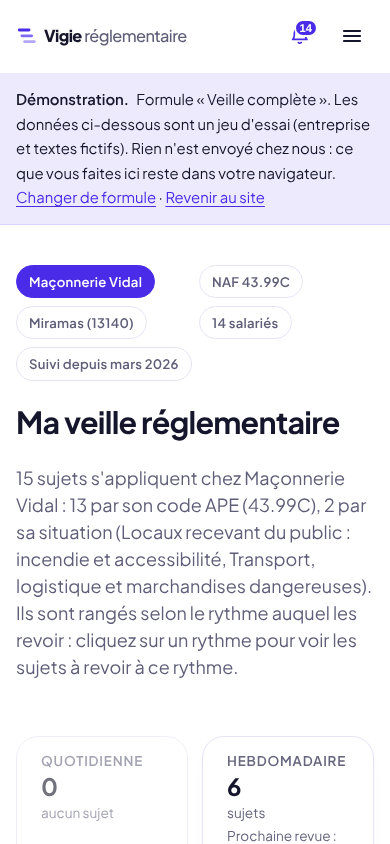
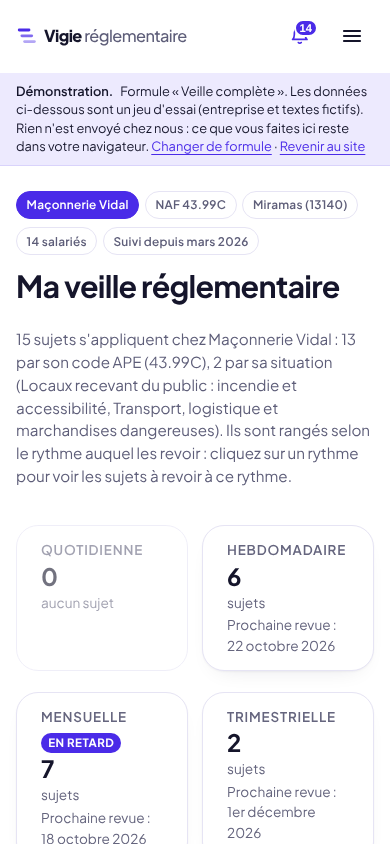
Téléphone plus soigné, écrans d'accès sur le modèle des autres pages
- Téléphone : cartes de tableau compactes (le texte en tête, deux
  informations par ligne), carrés deux par deux, en-tête et bandeau de
  démonstration plus courts, sections moins espacées.
- Connexion, création de compte, mot de passe oublié : titre à gauche, puis
  une carte pour le formulaire et une pour ce que l'on retrouve dans son
  espace, comme Mon compte et Réglages.

Claude-Session: https://claude.ai/code/session_018eHCodhqxxzNvWMueTAwHN

Changed region(s): [[0.0308, 0.0924, 0.9538, 0.8009], [0.0923, 0.8318, 0.3692, 1.0], [0.5846, 0.8318, 0.8923, 1.0]]

diff --git a/assets/site.css b/assets/site.css
@@ -4177,3 +4177,67 @@ main .lecture, main .note-source, main li, main p {
 .compte-lignes .ligne-reglage { border-top: 0 !important; }
 [data-page="compte"] #compte-principal > section.compte-reglages { grid-column: auto; }
 [data-page="compte"] #entreprise-role, [data-page="compte"] #entreprise-formule, [data-page="compte"] #cabinet-statut { color: var(--encre); font-size: .95rem; }
+
+/* ==========================================================================
+   Téléphone (4 novembre 2026, « plus joli sur téléphone ») : des cartes de
+   tableau compactes (le texte en tête, puis deux informations par ligne),
+   des carrés deux par deux, un en-tête et un bandeau plus courts.
+   ========================================================================== */
+@media (max-width: 47.99rem) {
+  /* Les tableaux devenus cartes */
+  .tableau-plan tr { display: grid !important; grid-template-columns: repeat(2, minmax(0, 1fr)); column-gap: .9rem; row-gap: .1rem;
+    padding: .85rem .95rem; margin-bottom: .6rem; border-radius: var(--rayon-carte); box-shadow: var(--ombre-carte); }
+  .tableau-plan tr[hidden], .tableau-plan tr.hors-filtre { display: none !important; }
+  .tableau-plan td { padding: .35rem 0; min-width: 0; }
+  .tableau-plan td::before { font-size: .68rem; letter-spacing: .05em; text-transform: uppercase; margin-bottom: .2rem; color: var(--encre-douce); }
+  .tableau-plan td[data-titre="Référence et lien"], .tableau-plan td[data-titre="Texte"], .tableau-plan td[data-titre="Texte de référence"] {
+    order: -1; grid-column: 1 / -1; padding-bottom: .55rem; margin-bottom: .2rem; border-bottom: 1px solid var(--filet) !important; font-size: .95rem; }
+  .tableau-plan td[data-titre="Référence et lien"]::before, .tableau-plan td[data-titre="Texte"]::before,
+  .tableau-plan td[data-titre="Texte de référence"]::before { display: none; }
+  .tableau-plan td[data-titre="Actions à déclencher"], .tableau-plan td[data-titre="Action à mener"],
+  .tableau-plan td[data-titre="Preuve ou commentaire"], .tableau-plan td[data-titre="Évaluation"],
+  .tableau-plan td[data-titre="Validation"] { grid-column: 1 / -1; }
+  .tableau-plan td[data-titre="Lu"]::before { visibility: hidden; }
+  .tableau-plan td select, .tableau-plan td input:not([type="checkbox"]) { width: 100%; max-width: 100%; min-height: 2.4rem; font-size: .9rem; }
+  .tableau-plan .etat-date, .tableau-plan .categorie-texte { font-size: .74rem; }
+  .tableau-plan ul { font-size: .88rem; }
+  .export-barre { margin-bottom: .5rem; }
+
+  /* Les carrés, deux par deux */
+  .compteurs, .faits { grid-template-columns: repeat(2, minmax(0, 1fr)); gap: .6rem; }
+  .compteurs > :last-child:nth-child(odd), .faits > :last-child:nth-child(odd) { grid-column: 1 / -1; }
+  .compteurs > div, .faits > div { padding: .8rem .9rem; }
+  .compteurs .grand { font-size: 1.45rem; }
+  .compteurs dt { font-size: .64rem; letter-spacing: .05em; margin-bottom: .3rem; }
+  .compteurs .precision { font-size: .76rem; }
+
+  /* L'en-tête de l'application : les étiquettes de l'entreprise sur une ou deux lignes */
+  .jalons { display: flex; flex-wrap: wrap; gap: .35rem; margin-bottom: var(--t3); }
+  .jalons li > span, .jalons li > a { display: inline-block; padding: .2rem .6rem; font-size: .74rem; }
+  .tete-app { padding-block: 1.4rem .4rem; }
+  .tete-app .lecture, .tete-app .chapeau { font-size: .95rem; }
+
+  /* Le bandeau de démonstration, plus court */
+  .bandeau-demo { padding-block: .55rem; font-size: .8rem; line-height: 1.45; }
+
+  /* Des sections moins espacées */
+  .section, .rubrique { padding-block: clamp(1.75rem, 1.2rem + 3vw, 2.5rem); }
+  .rubrique > .enveloppe > h2 { margin-bottom: .9rem; }
+}
+
+/* --- Écrans d'accès, sur le modèle des autres pages (4 novembre 2026) ------ */
+.auth-uni { padding-top: clamp(1.75rem, 1.2rem + 2vw, 3rem); }
+.auth-uni .compte-tete { margin: 0 0 var(--t4); }
+.auth-uni .compte-tete .compte-connecte { margin: .35rem 0 0; font-size: var(--chapeau-site); color: var(--encre-douce); }
+.auth-grille { display: grid; gap: var(--ecart-cartes); align-items: start; }
+@media (min-width: 64rem) { .auth-grille { grid-template-columns: minmax(0, 1fr) minmax(0, 1fr); } }
+.auth-uni .compte-corps { padding: 1.25rem 1.25rem 1.4rem; }
+.auth-uni .auth-carte { max-width: none; }
+.auth-uni .auth-pied { margin-top: 1.25rem; }
+.auth-liste { list-style: none; margin: 0; padding: .25rem 1.25rem .5rem; }
+.auth-liste li { padding: .8rem 0; border-bottom: 1px solid var(--filet); display: grid; gap: .2rem; }
+.auth-liste li:last-child { border-bottom: 0; }
+.auth-liste strong { font-size: .95rem; font-weight: 600; color: var(--encre); }
+.auth-liste span { font-size: .88rem; color: var(--encre-douce); line-height: 1.5; }
+.auth-note { margin: 0; padding: .8rem 1.25rem 1rem; border-top: 1px solid var(--filet); font-size: .8rem; color: var(--encre-douce); }
+.auth-uni .carte-connexion.auth-carte { padding: 0; border: 0; box-shadow: none; background: none; border-radius: 0; }
